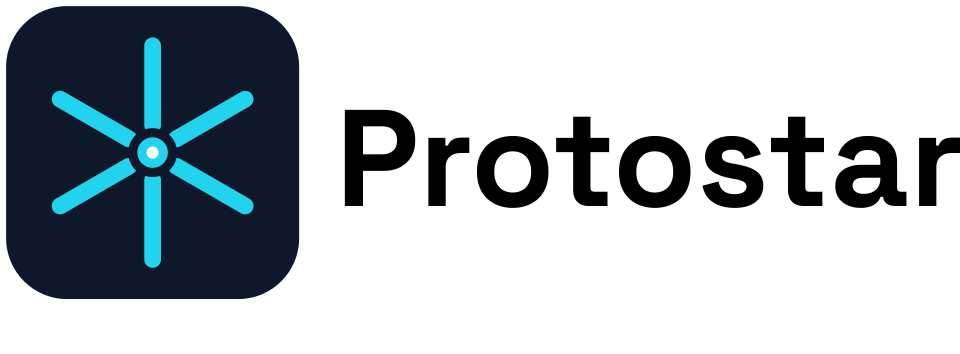
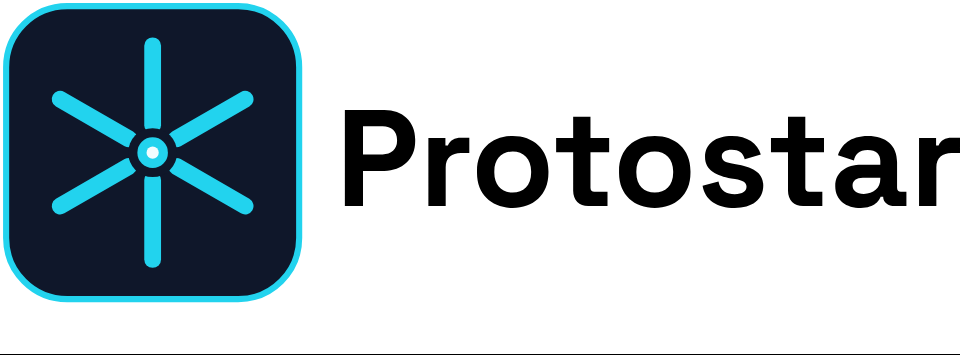
style(branding): add cyan borders to project marks

diff --git a/README.md b/README.md
@@ -2,7 +2,7 @@
 <div align="center">
 
 <picture>
-  <source media="(prefers-color-scheme: dark)" srcset="https://raw.githubusercontent.com/JacksonFergusonDev/protostar/main/docs/assets/readme-dark.webp">
+  <source media="(prefers-color-scheme: dark)" srcset="./docs/assets/readme-dark.svg">
   <source media="(prefers-color-scheme: light)" srcset="https://raw.githubusercontent.com/JacksonFergusonDev/protostar/main/docs/assets/readme-light.webp">
   <img alt="Protostar Logo"
        src="https://raw.githubusercontent.com/JacksonFergusonDev/protostar/main/docs/assets/readme-light.webp"
